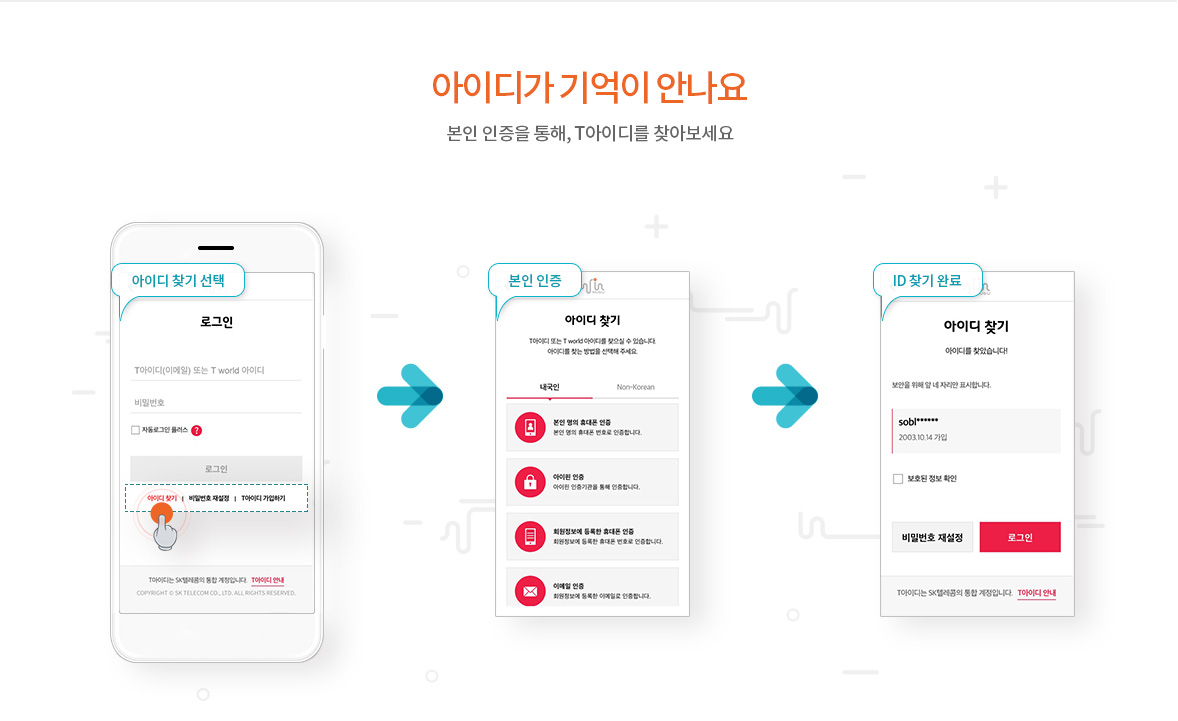
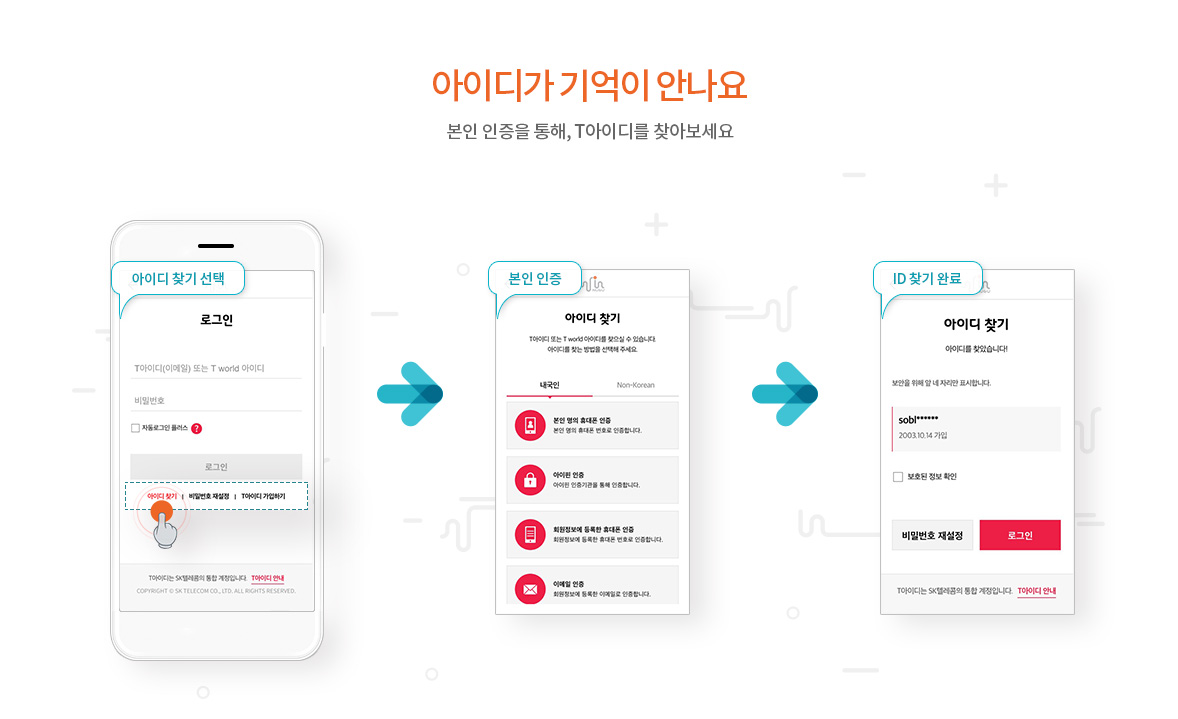
이미지 수정

diff --git a/sources/assets/styles/scss/_components.scss b/sources/assets/styles/scss/_components.scss
@@ -1133,7 +1133,7 @@
 			.title { left: 560px; 
 				&::before { background-position: -120px 6px; }
 			}
-			.description { padding-top: 64.4%; background-image: url('/assets/images/desktop/img_forgotid.jpg'); background-repeat: no-repeat; }
+			.description { padding-top: 64.2%; background-image: url('/assets/images/desktop/img_forgotid.jpg'); background-repeat: no-repeat; }
 		}
 		.lost-id {
 			.title { left: 840px; padding-right: 70px; width: 210px;
